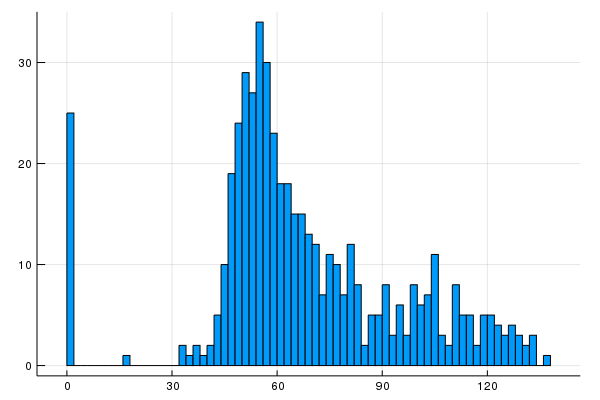
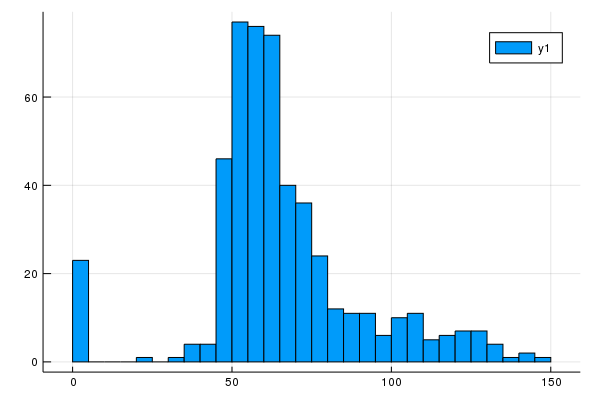
Blog -> Julia 1.0

Changed region(s): [[0.03, 0.03, 0.96, 0.99], [0.81, 0.06, 0.96, 0.18]]

diff --git a/content/blog/circles_conics.md b/content/blog/circles_conics.md
@@ -9,7 +9,7 @@ weight = 20
 author = "Paul"
 +++
 
-Consider the problem of computing all circles that are tangent to 3 given [conics](https://en.wikipedia.org/wiki/Conic_section) $C_1,C_2,C_3 \subset \mathbb{R}^2$. For instance, the following picture shows 14 circles that are tangent to
+Consider the problem of computing all circles that are tangent to 3 [conics](https://en.wikipedia.org/wiki/Conic_section) $C_1,C_2,C_3 \subset \mathbb{R}^2$. For instance, the following picture shows 14 circles that are tangent to
  $$C_1 = \\{y=-x^2+2x+5\\}, C_2 = \\{y = 2x^2+5x-8\\}, C_3 = \\{y = 8x^2-3x-2\\}.$$
 
 ![img](/images/circles.png)
@@ -23,23 +23,24 @@ Consider the problem of computing all circles that are tangent to 3 given [conic
 
 * $(\overline{x}-\overline{a_1}, \overline{y}-\overline{a_2})$ spans the normal space of $C_i$ at $(x,y)$ for $1\leq i\leq 3$.
 
-I wish to explore the solution space. In particular, I wish to know how many real solutions are possible, because only real solutions give circles in the real plane.
+How many real solutions can this system have? Only real solutions give circles in the real plane.
 
 Here is code to generate the above system for random coefficients of the conics.
 
 ```julia
-using HomotopyContinuation, DynamicPolynomials
-@polyvar x y a[1:2] r v[1:2, 1:3]
+using HomotopyContinuation, DynamicPolynomials, LinearAlgebra
+@polyvar a[1:2] r #variables for the circle center and radius
+@polyvar x y #variables of the circle
+@polyvar B[1:3,1:3] #coefficients of the conics
+@polyvar v[1:2, 1:3] #variables of the 3 points at which the circle is tangent
 
-C = [ [x; y; 1] ⋅ (randn(3,3) * [x;y;1]) for _ in 1:3]
-tangential_conditions = [det([[x;y]-a differentiate(C[i], [x;y])])  for i in 1:3]
+circle = ([x;y]-a) ⋅ ([x;y]-a) - r
+conic  = [x; y; 1] ⋅ (B * [x;y;1]);
+T = det([differentiate(circle, [x;y]) differentiate(conic, [x;y])])
 
-F = map(i->
-  [
-  (v[1,i]-a[1])^2 + (v[2,i]-a[2])^2 - r;
-  C[i]([x;y] => v[:,i]);
-  tangential_conditions[i]([x;y] => v[:,i], a=>a)
-  ], 1:3)
+#Plug in the variables of the 3 points
+#and random coefficients for B
+F = [[f([x;y] => v[:,i], a=>a, r=>r, vec(B) => randn(9)) for f in [circle;conic;T]] for i in 1:3]
 
 S = solve(vcat(F...))
 ```
@@ -48,29 +49,20 @@ I get the following answer.
 ```julia-repl
 AffineResult with 512 tracked paths
 ==================================
-• 184 non-singular finite solutions (0 real)
+• 184 non-singular finite solutions (14 real)
 • 0 singular finite solutions (0 real)
 • 328 solutions at infinity
 • 0 failed paths
-• random seed: 32280
+• random seed: 743957
 ```
 
 I make a random experiment by sampling 500 instances of the above system and counting the real solutions.
 
 ```julia
 number_of_real_solutions = Vector{Int}()
-rands = [randn(3,3) for _ in 1:500]
-
+rands = [randn(9) for _ in 1:500]
 for M in rands
-  C = [ [x; y; 1] ⋅ (M * [x;y;1]) for _ in 1:3]
-  tangential_conditions = [det([[x;y]-a differentiate(C[i], [x;y])])  for i in 1:3]
-
-  F = map(i->
-    [
-    (v[1,i]-a[1])^2 + (v[2,i]-a[2])^2 - r;
-    C[i]([x;y] => v[:,i]);
-    tangential_conditions[i]([x;y] => v[:,i], a=>a)
-    ], 1:3)
+  F = [[f([x;y] => v[:,i], a=>a, r=>r, vec(B) => M) for f in [circle;conic;T]] for i in 1:3]
 
   S = solve(vcat(F...))
   push!(number_of_real_solutions, nreal(S))
@@ -81,7 +73,7 @@ Here is a histogram of the results.
 
 ```julia
 using Plots #The Plots package must be installed for this
-histogram(number_of_real_solutions, bins = 92)
+histogram(number_of_real_solutions, bins = 46)
 ```
 
 ![img](/images/hist.png)
